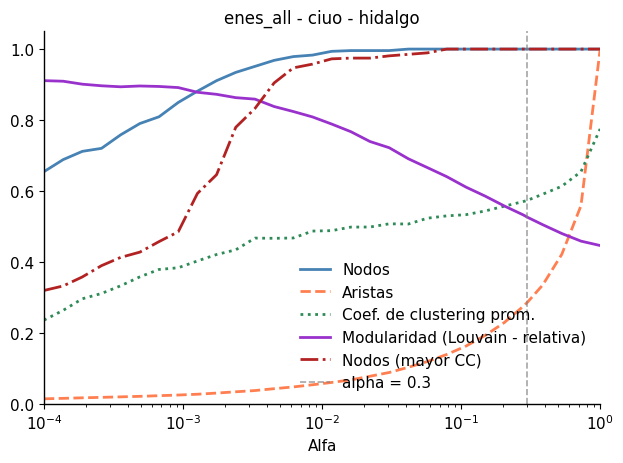
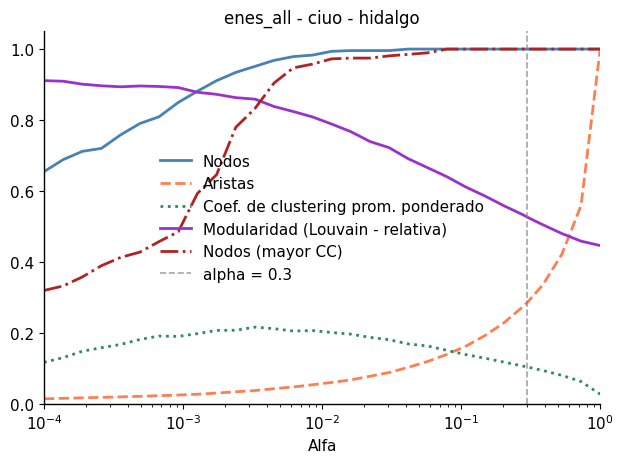
Fix clustering coefficient calculations and update logging messages

diff --git a/src/metrics.py b/src/metrics.py
@@ -41,7 +41,8 @@ def summarize_graph(graph: nx.Graph) -> Dict[str, MetricValue]:
 		"self_loops": nx.number_of_selfloops(graph),
 		"avg_degree": average_degree(graph),
 		"avg_weighted_degree": average_degree(graph, weight="weight"),
-		"avg_clustering": nx.average_clustering(graph, weight="weight")
+		"avg_clustering": nx.average_clustering(graph),
+		"avg_weighted_clustering": nx.average_clustering(graph, weight="weight")
 		if graph.number_of_nodes() > 0
 		else 0.0,
 		"connected_components": nx.number_connected_components(graph),
@@ -57,7 +58,8 @@ def log_graph_metrics(label: str, metrics: Dict[str, MetricValue]) -> None:
 	print(f"Loop count: {metrics['self_loops']}")
 	print(f"Average degree: {metrics['avg_degree']:.2f}")
 	print(f"Average weighted degree: {metrics['avg_weighted_degree']:.2f}")
-	print(f"Average clustering coefficient: {metrics['avg_clustering']:.4f}")
+	print(f"Average clustering coefficient ponderado: {metrics['avg_clustering']:.4f}")
+	print(f"Average weighted clustering coefficient: {metrics['avg_weighted_clustering']:.4f}")
 	diameter = metrics.get("diameter")
 	diameter_display = diameter if diameter is not None else "N/A"
 	print(f"Diameter (largest component): {diameter_display}")

diff --git a/src/plotting.py b/src/plotting.py
@@ -1548,7 +1548,7 @@ def plot_alpha_sensitivity(
 	alphas: 1-D array of alpha values in (0, 1).
 	nodes_with_edges: fraction of nodes that have at least one edge at each alpha.
 	edge_counts: fraction of edges retained at each alpha.
-	clustering_coefficients: average clustering coefficient at each alpha.
+	clustering_coefficients: Average clustering coefficient ponderado at each alpha.
 	title: plot title (typically the network name).
 	output_path: destination file path.
 	modularities: Louvain modularity at each alpha (optional).
@@ -1581,7 +1581,7 @@ def plot_alpha_sensitivity(
 		color=color_clust,
 		linewidth=2,
 		linestyle=":",
-		label="Coef. de clustering prom.",
+		label="Coef. de clustering prom. ponderado",
 	)
 
 	lines = [l1, l2, l3]

diff --git a/src/logging_utils.py b/src/logging_utils.py
@@ -64,9 +64,9 @@ def add_graph_metrics(
 		f"Average weighted degree: {metrics.get('avg_weighted_degree'):.2f}"
 		if metrics.get("avg_weighted_degree") is not None
 		else "Average weighted degree: N/A",
-		f"Average clustering coefficient: {metrics.get('avg_clustering'):.4f}"
+		f"Average clustering coefficient ponderado: {metrics.get('avg_clustering'):.4f}"
 		if metrics.get("avg_clustering") is not None
-		else "Average clustering coefficient: N/A",
+		else "Average clustering coefficient ponderado: N/A",
 		f"Diameter (largest component): {metrics.get('diameter')}",
 		f"Connected components: {metrics.get('connected_components')}",
 	]

diff --git a/scripts/07_alpha_sensitivity.py b/scripts/07_alpha_sensitivity.py
@@ -42,7 +42,7 @@ def _sweep_alpha(
 			nodes_largest_cc[i] = 0.0
 
 		if backbone.number_of_edges() > 0:
-			clustering_coeffs[i] = nx.average_clustering(backbone)
+			clustering_coeffs[i] = nx.average_clustering(backbone, weight="weight")
 			_, mod = comm.louvain_partition(backbone, seed=seed)
 			modularities[i] = mod
 		else:
